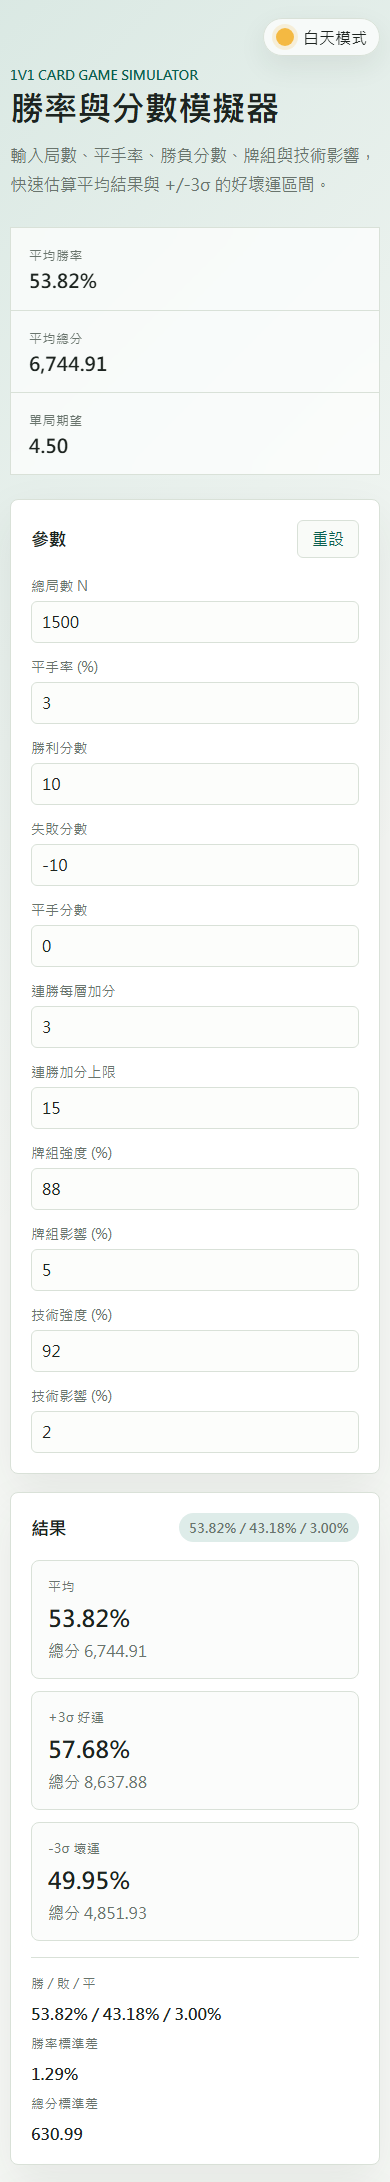
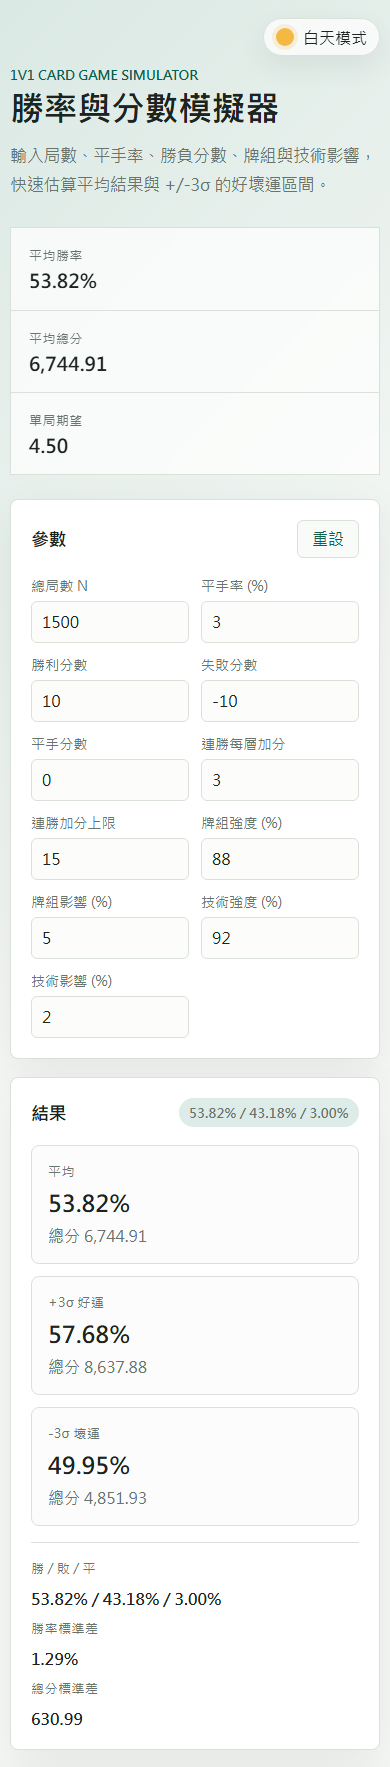
Add mobile two-column parameter layout

diff --git a/styles.css b/styles.css
@@ -111,7 +111,9 @@ canvas { display: block; width: 100%; height: auto; aspect-ratio: 15 / 7; }
 }
 @media (max-width: 620px) {
   .app-shell { width: min(100% - 20px, 1180px); padding-top: 18px; }
-  .summary-strip, .field-grid, .result-grid { grid-template-columns: 1fr; }
+  .summary-strip, .result-grid { grid-template-columns: 1fr; }
+  .field-grid { grid-template-columns: repeat(2, minmax(0, 1fr)); gap: 12px; }
+  .field-grid label { min-width: 0; }
   .summary-strip div { border-right: 0; border-bottom: 1px solid var(--line); }
   .summary-strip div:last-child { border-bottom: 0; }
   .details div { align-items: flex-start; flex-direction: column; }
